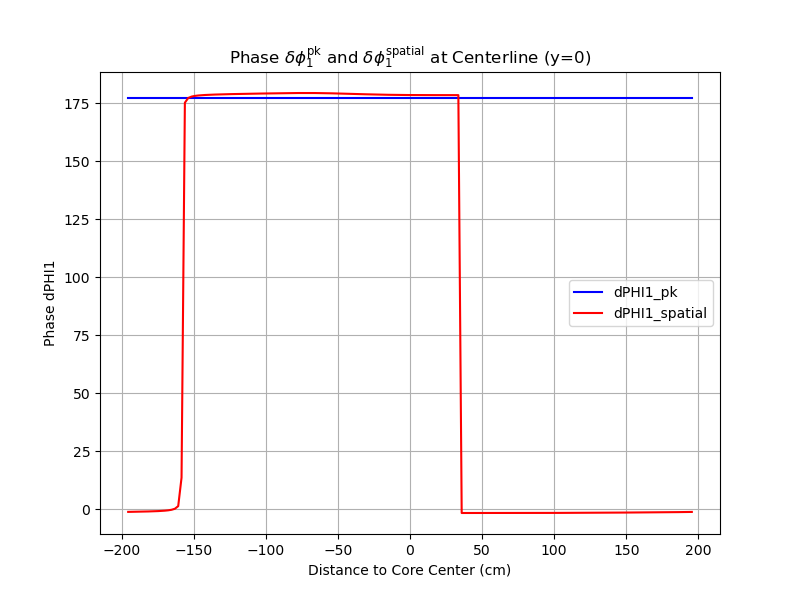
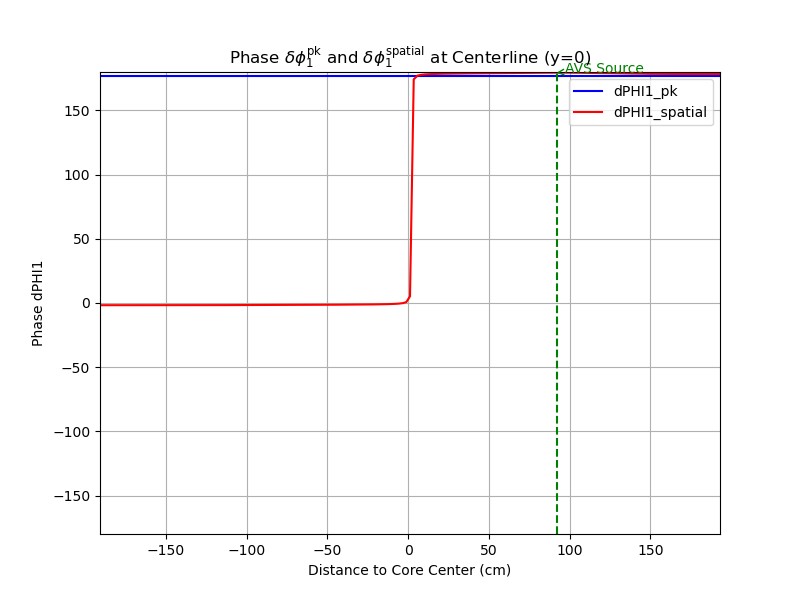
add 2D rect FAV

diff --git a/OUTPUTS/OBJECTIVES3_TEST02_2DMG_BIBLIS_CENTER_FAV/OBJECTIVES3_TEST02_2DMG_BIBLIS_CENTER_FAV_PK_COMPONENTS/OBJECTIVES3_TEST02_2DMG_BIBLIS_CENTER_FAV_NOISE/comparison2.py b/OUTPUTS/OBJECTIVES3_TEST02_2DMG_BIBLIS_CENTER_FAV/OBJECTIVES3_TEST02_2DMG_BIBLIS_CENTER_FAV_PK_COMPONENTS/OBJECTIVES3_TEST02_2DMG_BIBLIS_CENTER_FAV_NOISE/comparison2.py
@@ -60,7 +60,6 @@ def plot_1D_centerline_y0_2(PHI1g, PHI2g, conv, I_max, J_max, dx, dy, g, varname
         PHI1g_temp[PHI1_indices] = PHI1g
         PHI2g_temp[PHI1_indices] = PHI2g
     
-    print(np.nanmax(PHI1g_temp), np.nanmax(PHI2g_temp))
     tolerance = 1.5e-0  # Define a small tolerance for floating point comparisons
     distance_flux1_map = defaultdict(list)
     distance_flux2_map = defaultdict(list)
@@ -86,15 +85,27 @@ def plot_1D_centerline_y0_2(PHI1g, PHI2g, conv, I_max, J_max, dx, dy, g, varname
     ax1.plot(unique_distances, flux2_values, 'r', markersize=5, label=f'dPHI{g}_spatial')
 
     # Find the peak of flux2
-    peak_index = 119
-    peak_distance = 92.0
-    peak_value = flux2_values[peak_index]
+    peak_index1 = 300
+    peak_distance1 = 81.0
+    peak_value1 = flux2_values[peak_index1]
 
     # Add a vertical dashed line at the peak
-    ax1.axvline(x=peak_distance, color='g', linestyle='--', linewidth=1.5)
-    ax1.annotate(f'AVS Source', 
-             xy=(peak_distance, peak_value),
-             xytext=(peak_distance + 5, peak_value+0.002),
+    ax1.axvline(x=peak_distance1, color='g', linestyle='--', linewidth=1.5)
+    ax1.annotate(f'FAV1 Source', 
+             xy=(peak_distance1, peak_value1),
+             xytext=(peak_distance1 + 5, peak_value1 + 0.002),
+             arrowprops=dict(arrowstyle='->', color='g'),
+             color='g')
+
+    peak_index2 = 500
+    peak_distance2 = 105.0
+    peak_value2 = flux2_values[peak_index2]
+
+    # Add a vertical dashed line at the peak
+    ax1.axvline(x=peak_distance2, color='g', linestyle='--', linewidth=1.5)
+    ax1.annotate(f'FAV2 Source', 
+             xy=(peak_distance2, peak_value2),
+             xytext=(peak_distance2 + 5, peak_value2 + 0.002),
              arrowprops=dict(arrowstyle='->', color='g'),
              color='g')
 
@@ -120,7 +131,7 @@ def plot_1D_centerline_y0_2(PHI1g, PHI2g, conv, I_max, J_max, dx, dy, g, varname
 inputs_dir = os.path.abspath(os.path.join(os.getcwd(), '..', '..', '..', '..', 'INPUTS'))
 print("Inputs directory added to sys.path:", inputs_dir)
 sys.path.append(inputs_dir)
-from OBJECTIVES3_TEST01_2DMG_BIBLIS_CENTER_AVS import *
+from OBJECTIVES3_TEST02_2DMG_BIBLIS_CENTER_FAV import *
 
 output_dir = f'OUTPUTS/{case_name}/{case_name}_PK_COMPONENTS/{case_name}_NOISE'
 
